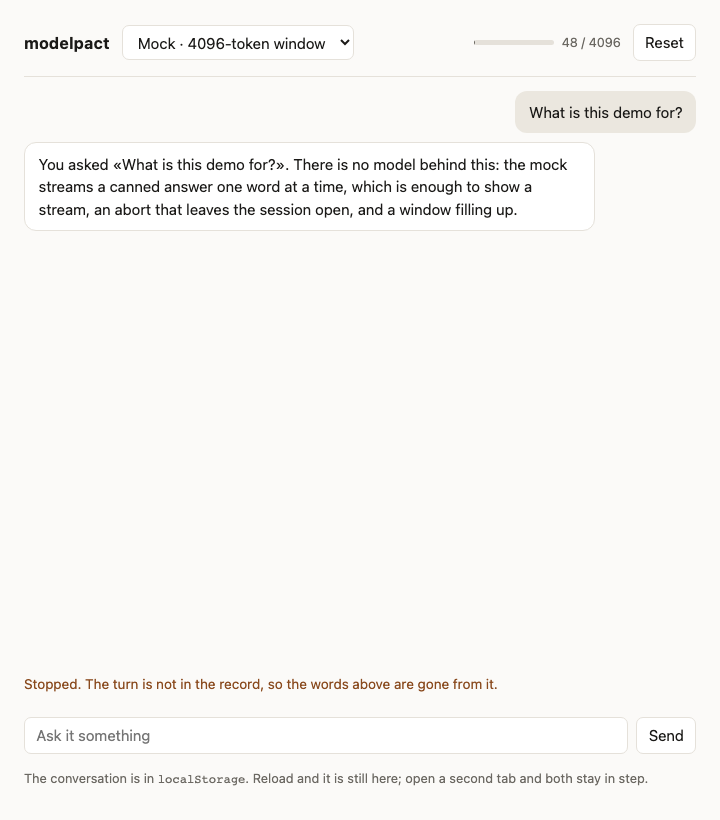
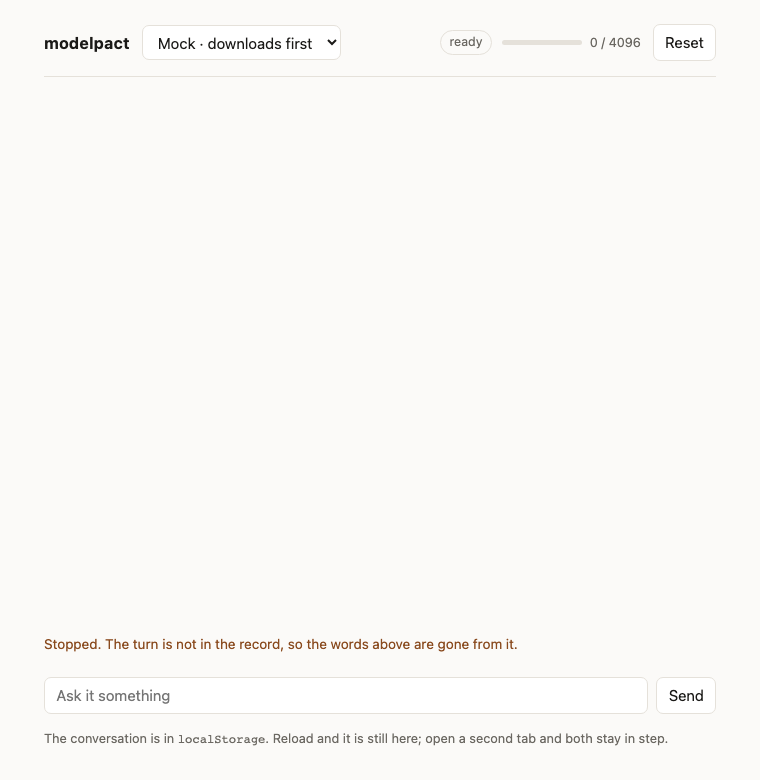
feat(demo): the kind aliases where a UI actually wants them
Three `Record`s in App.tsx, one per alias, and each replaces something the
demo was doing worse.

`FailureKind` is the one that earns its keep. `explain` was a switch with a
default, and a default is exactly what shows someone `Refused: not-allowed`
when a kind is added upstream. Keyed by the alias it is a table of eleven
sentences, and leaving one out is TS2741 naming the missing kind — measured
by removing one.

`AccessKind` puts the branch on screen, which the demo never showed. It had
`ready` and `downloading` as separate pieces of state and no way to say
"unavailable" at all. The chip reads the branch until a session is open and
`ready` after, because a session on the far side of a download is ready
however it was reached.

`UsageKind` covers the two branches with no numbers to draw. The meter used
to print `usage.kind` at the person, so an absent budget arrived as the word
"unknown".

The header wrapped to a second line once the chip was in it, so the status
group is pushed as one and the provider labels lost the token counts the
meter was already showing. Checked in the browser: the chip follows the
download branch through to ready, the notice comes from the table, and the
header stays on one line.

diff --git a/demo/src/App.tsx b/demo/src/App.tsx
@@ -1,26 +1,69 @@
 import { useState, type FormEvent } from "react";
-import type { AiFailure, ContextUsage } from "modelpact";
+import type {
+  AccessKind,
+  AiFailure,
+  ContextUsage,
+  FailureKind,
+  UsageKind,
+} from "modelpact";
 
 import { PROVIDER_NAMES, labelOf, type ProviderName } from "./providers";
-import { useChat } from "./useChat";
+import { useChat, type Chat } from "./useChat";
 
-/** What each refusal means for the person looking at the screen. */
+/** One line per branch of `ModelAccess`, which is the whole of that union. */
+const ACCESS: Record<AccessKind, string> = {
+  ready: "ready",
+  "needs-download": "fetching weights",
+  unavailable: "unavailable",
+};
+
+/**
+ * Every refusal the vocabulary has, in words a person can read.
+ *
+ * A `Record` rather than a switch with a default: the default is what lets a
+ * kind added upstream reach someone as its own name, and keying by
+ * `FailureKind` means the build stops here instead.
+ */
+const NOTICE: Record<FailureKind, string> = {
+  aborted:
+    "Stopped. The turn is not in the record, so the words above are gone from it.",
+  busy: "One generation at a time on a session",
+  "context-overflow":
+    "The window is full. Reset, or hand back a shorter conversation.",
+  failed: "The backend could not answer",
+  "invalid-input": "That message was not accepted",
+  "invalid-state": "The page is not fully active",
+  "not-allowed": "Blocked by this page's permissions policy",
+  unknown: "Something else went wrong",
+  unsupported: "No model API in this runtime",
+  "unsupported-config": "No model for what was asked for",
+  "unsupported-input": "That message was built wrong",
+};
+
+/** The two branches with no numbers to draw; `bounded` renders a bar instead. */
+const NO_BUDGET: Record<Exclude<UsageKind, "bounded">, string> = {
+  unknown: "budget unknown",
+  unbounded: "no limit",
+};
+
+/**
+ * The branch until a session is open, and `ready` once one is: however the
+ * download branch was reached, a session on the other side of it is ready.
+ */
+function statusOf(chat: Chat): string {
+  if (chat.access === null) return "asking…";
+  return chat.ready ? ACCESS.ready : ACCESS[chat.access];
+}
+
 function explain(failure: AiFailure): string {
-  switch (failure.kind) {
-    case "aborted":
-      return "Stopped. The turn is not in the record, so the words above are gone from it.";
-    case "busy":
-      return `Already generating: ${failure.detail}`;
-    case "context-overflow":
-      return "The window is full. Reset, or hand back a shorter conversation.";
-    default:
-      return `Refused: ${failure.kind}`;
-  }
+  const notice = NOTICE[failure.kind];
+  // Only some kinds carry a detail, and narrowing is what says which.
+  return failure.kind === "busy" ? `${notice}: ${failure.detail}` : notice;
 }
 
 function Meter({ usage }: { usage: ContextUsage }) {
   if (usage.kind !== "bounded")
-    return <span className="meter-text">{usage.kind}</span>;
+    return <span className="meter-text">{NO_BUDGET[usage.kind]}</span>;
   const share = Math.min(1, usage.used / usage.total);
   return (
     <span className="meter">
@@ -62,7 +105,10 @@ export function App() {
             </option>
           ))}
         </select>
-        <Meter usage={chat.usage} />
+        <span className="status">
+          <span className="chip">{statusOf(chat)}</span>
+          <Meter usage={chat.usage} />
+        </span>
         <button type="button" onClick={chat.reset}>
           Reset
         </button>

diff --git a/demo/src/useChat.ts b/demo/src/useChat.ts
@@ -11,6 +11,7 @@ import { useCallback, useEffect, useRef, useState } from "react";
 import {
   AiError,
   err,
+  type AccessKind,
   type AiFailure,
   type AiMessage,
   type AiSession,
@@ -22,6 +23,8 @@ import { PROVIDERS, type ProviderName } from "./providers";
 import { clearRecord, loadRecord, saveRecord, watchRecord } from "./storage";
 
 export interface Chat {
+  /** Which branch the provider answered with, or null while it is being asked. */
+  readonly access: AccessKind | null;
   readonly record: readonly AiMessage[];
   /** The answer as it arrives; null when no turn is running. */
   readonly streaming: string | null;
@@ -44,9 +47,11 @@ export interface Chat {
 async function openSession(
   name: ProviderName,
   history: readonly AiMessage[],
+  onAccess: (kind: AccessKind) => void,
   onProgress: (loaded: number) => void,
 ): Promise<Result<AiSession, AiFailure>> {
   const access = await PROVIDERS[name].access();
+  onAccess(access.kind);
   if (access.kind === "unavailable") return err(access.reason);
   if (access.kind === "needs-download") {
     return access.open(
@@ -71,6 +76,7 @@ export function useChat(name: ProviderName): Chat {
   const [overflowed, setOverflowed] = useState(false);
   const [failure, setFailure] = useState<AiFailure | null>(null);
   const [downloading, setDownloading] = useState<number | null>(null);
+  const [access, setAccess] = useState<AccessKind | null>(null);
   const [ready, setReady] = useState(false);
 
   const session = useRef<AiSession | null>(null);
@@ -82,13 +88,21 @@ export function useChat(name: ProviderName): Chat {
     let current: AiSession | null = null;
     let live = true;
     setReady(false);
+    setAccess(null);
     setOverflowed(false);
     setFailure(null);
 
     void (async () => {
-      const opened = await openSession(name, seed, (loaded) => {
-        if (live) setDownloading(loaded);
-      });
+      const opened = await openSession(
+        name,
+        seed,
+        (kind) => {
+          if (live) setAccess(kind);
+        },
+        (loaded) => {
+          if (live) setDownloading(loaded);
+        },
+      );
       setDownloading(null);
       if (!live) {
         // Unmounted while opening, or the effect re-ran: this session belongs
@@ -176,6 +190,7 @@ export function useChat(name: ProviderName): Chat {
   }, []);
 
   return {
+    access,
     record,
     streaming,
     usage,

diff --git a/demo/src/providers.ts b/demo/src/providers.ts
@@ -44,9 +44,9 @@ export const PROVIDER_NAMES = Object.keys(PROVIDERS) as ProviderName[];
 export function labelOf(name: ProviderName): string {
   switch (name) {
     case "mock":
-      return "Mock · 4096-token window";
+      return "Mock";
     case "mock-narrow":
-      return "Mock · 60-token window";
+      return "Mock · narrow window";
     case "mock-download":
       return "Mock · downloads first";
   }

diff --git a/demo/src/styles.css b/demo/src/styles.css
@@ -82,11 +82,25 @@ input:disabled {
   cursor: default;
 }
 
+.chip {
+  font-size: 0.78rem;
+  color: var(--muted);
+  border: 1px solid var(--line);
+  border-radius: 999px;
+  padding: 0.15rem 0.55rem;
+}
+
+.status {
+  display: flex;
+  align-items: center;
+  gap: 0.6rem;
+  margin-left: auto;
+}
+
 .meter {
   display: flex;
   align-items: center;
   gap: 0.5rem;
-  margin-left: auto;
 }
 
 .meter-bar {

diff --git a/demo/README.md b/demo/README.md
@@ -17,6 +17,7 @@ npm run dev
 | **Stop** halfway through         | `signal`, and a session that is still open afterwards         |
 | The interrupted answer vanishing | only completed turns reach `session.history()`                |
 | The meter beside the picker      | `session.usage()`                                             |
+| The chip beside it               | `AccessKind`, one line per branch of `ModelAccess`            |
 | "The conversation outgrew…"      | `oncontextoverflow`, fired once, on the narrow-window backend |
 | The progress line on first open  | the `needs-download` branch and its monitor                   |
 | Reload, and it is still there    | `session.history()` out, `open({ history })` back in          |
@@ -37,6 +38,11 @@ the rest of this app exists to make honest.
   storing it is `JSON.stringify` and nothing more.
 - [`src/providers.ts`](src/providers.ts) — the registry, and the exhaustive
   switch its keys buy.
+- [`src/App.tsx`](src/App.tsx) — three `Record`s keyed by `AccessKind`,
+  `FailureKind` and `UsageKind`. The middle one is the reason those aliases
+  exist: a UI that owes a sentence to every refusal the vocabulary has, and a
+  build that stops here when a new one is added rather than showing someone a
+  tag.
 
 ## Notes
 
